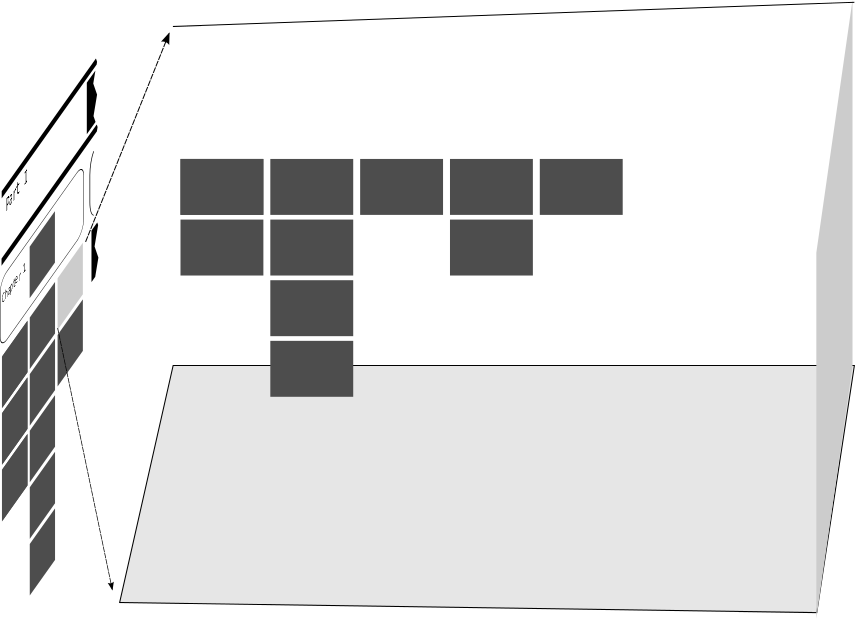
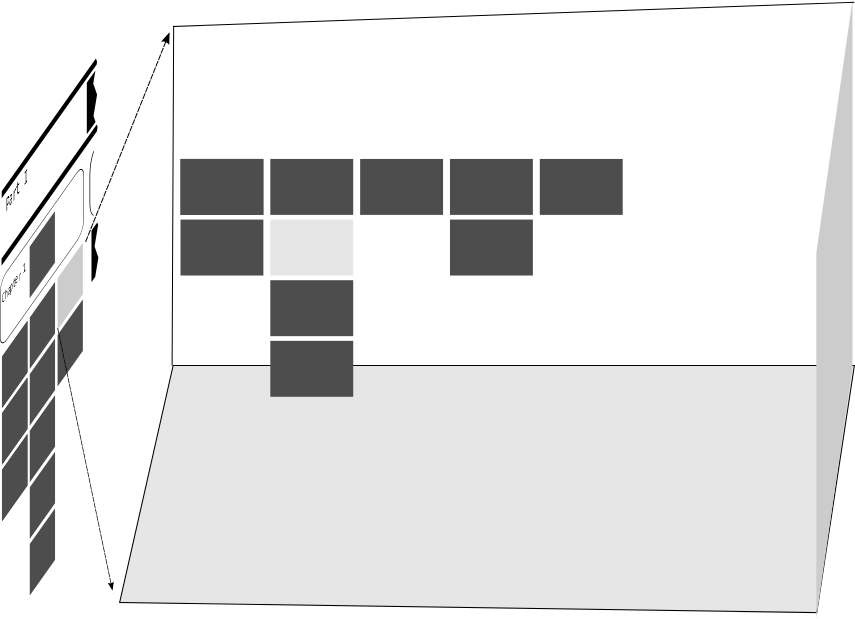
text and further refined transition drawing

Changed region(s): [[0.3041, 0.3376, 0.4257, 0.4604]]

diff --git a/README.md b/README.md
@@ -27,10 +27,13 @@ Say that a Topic has too many subtopics to cover on a single slide, how are we g
 
 ![Transition mockup](https://github.com/tfer/flowtime.js/raw/master/assets/img/Transition_topic2sub.png "Transition to subtopics")
 
+### In the above drawing,
+
+I'm showing how we might represent a transition to two more sublevels.  If this where a textbook that used dotted numbers to track each level, we would be at 1.3.1.2.2 in Part I.  Note that the tail .2.2 is shown in a kind of "drawer" pulled out of location 1.3.1 ...
 
 * * * *
 
-#### From here to the end is Marco's Lago github README.md file
+#### From here to the end is Marco Lago's github README.md file
 
 ### Flowtime.js is a framework for easily build HTML presentations or websites.
 
